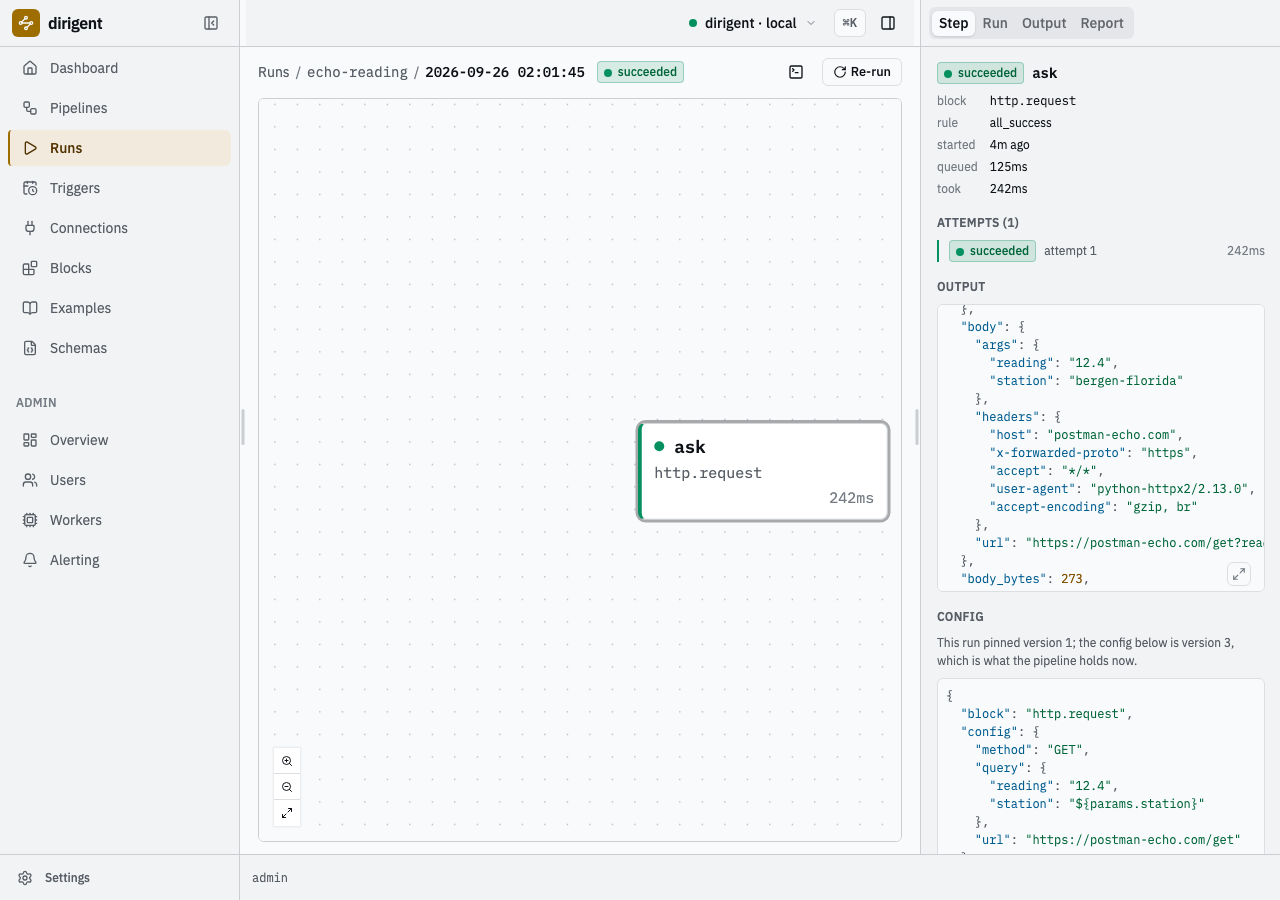
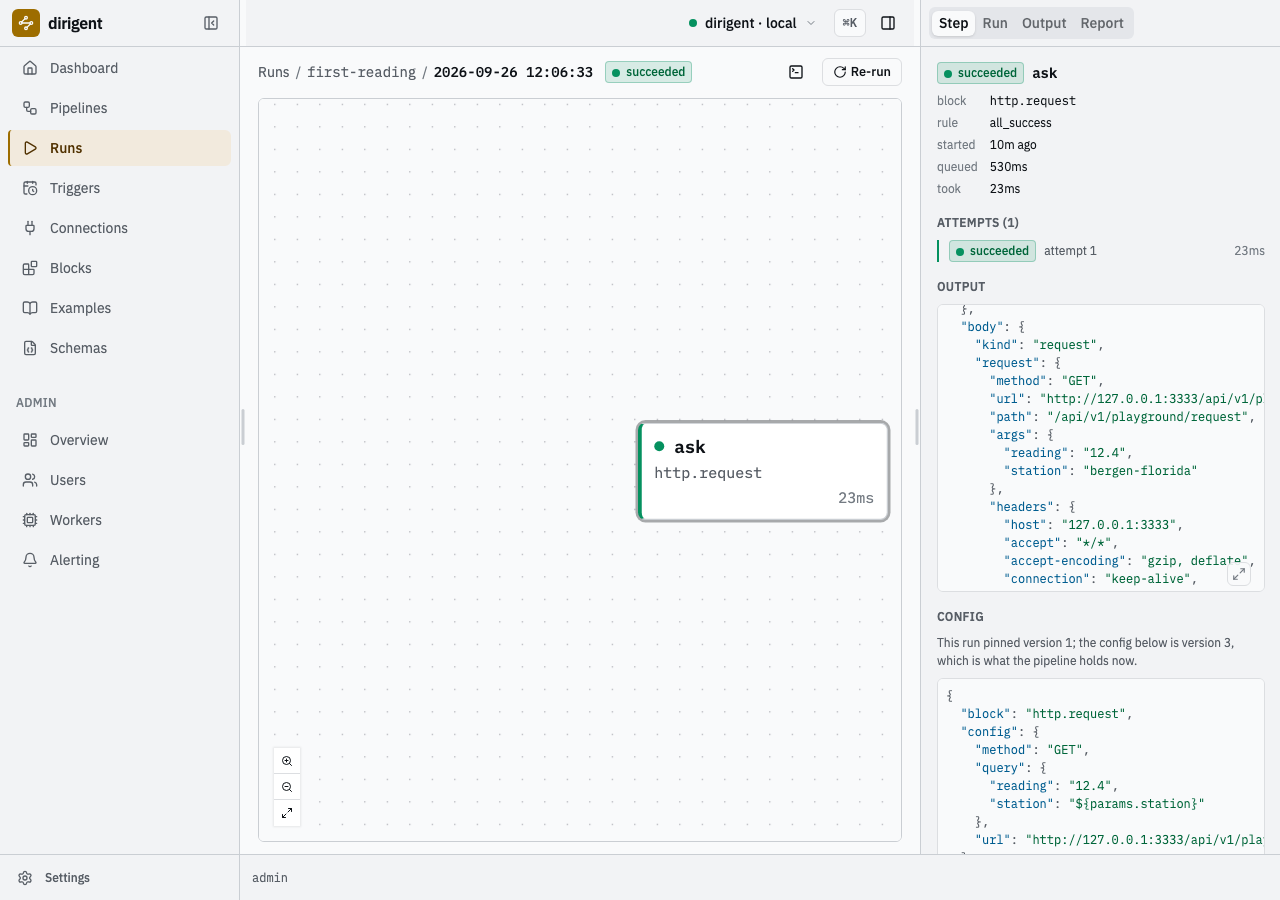
docs: re-shoot the basics tutorial on the playground

Changed region(s): [[0.75, 0.3733, 0.9688, 0.6533], [0.25, 0.0622, 0.5625, 0.0933], [0.7812, 0.1556, 0.8125, 0.2178]]

diff --git a/docs/basics.md b/docs/basics.md
@@ -49,7 +49,7 @@ uv sync
 ```
 
 ```text
-2026-09-26T01:58:26.030+02:00 [info    ] initialised                    [instance.initialised] directory=/home/you/basics state=.dirigent/state schema=0001_baseline admin=admin template=local version=0.19.0
+2026-09-26T12:05:38.030+02:00 [info    ] initialised                    [instance.initialised] directory=/home/you/basics state=.dirigent/state schema=0001_baseline admin=admin template=local version=0.19.0
 ```
 
 It creates the state directory, migrates the schema, creates the first admin, and mints that
@@ -140,13 +140,13 @@ uv run dg run --local hello.yaml
 ```
 
 ```text
-2026-09-26T02:01:08.204+02:00 [info    ] started                        [run] pipeline=hello run_id=01a0ad18-3220-76eb-8df9-e50dacb275d9 local=true scratch=file:///tmp/dirigent-local-8tksuueg/artifacts/runs/01a0ad18-3220-76eb-8df9-e50dacb275d9 root=/tmp/dirigent-local-8tksuueg
-2026-09-26T02:01:08.200+02:00 [info    ] queued                         [step make] block=value.const attempt=1
-2026-09-26T02:01:08.244+02:00 [info    ] finished                       [log make] duration_ms=0 output_bytes=31
-2026-09-26T02:01:08.239+02:00 [info    ] succeeded                      [step make] block=value.const attempt=1 duration_ms=9
-2026-09-26T02:01:08.297+02:00 [info    ] the step before me said: hello from dirigent [log say]
-2026-09-26T02:01:08.297+02:00 [info    ] succeeded                      [step say] block=log.write attempt=1 duration_ms=4
-2026-09-26T02:01:08.394+02:00 [info    ] succeeded                      [run] pipeline=hello run_id=01a0ad18-3220-76eb-8df9-e50dacb275d9 exit_code=0
+2026-09-26T12:06:13.204+02:00 [info    ] started                        [run] pipeline=hello run_id=01a0ad18-3220-76eb-8df9-e50dacb275d9 local=true scratch=file:///tmp/dirigent-local-8tksuueg/artifacts/runs/01a0ad18-3220-76eb-8df9-e50dacb275d9 root=/tmp/dirigent-local-8tksuueg
+2026-09-26T12:06:13.200+02:00 [info    ] queued                         [step make] block=value.const attempt=1
+2026-09-26T12:06:13.244+02:00 [info    ] finished                       [log make] duration_ms=0 output_bytes=31
+2026-09-26T12:06:13.239+02:00 [info    ] succeeded                      [step make] block=value.const attempt=1 duration_ms=9
+2026-09-26T12:06:13.297+02:00 [info    ] the step before me said: hello from dirigent [log say]
+2026-09-26T12:06:13.297+02:00 [info    ] succeeded                      [step say] block=log.write attempt=1 duration_ms=4
+2026-09-26T12:06:13.394+02:00 [info    ] succeeded                      [run] pipeline=hello run_id=01a0ad18-3220-76eb-8df9-e50dacb275d9 exit_code=0
 steps
 ┏━━━━━━┳━━━━━━━━━━━━━┳━━━━━━━━━━━┳━━━━━━━┳━━━━━━━━━━┳━━━━━━━━━━━━━━━━━━━━━━━━━━━┓
 ┃ step ┃ block       ┃ outcome   ┃ after ┃ duration ┃ output                    ┃
@@ -240,10 +240,10 @@ uv run dg validate pipelines/first-reading.yaml
 ```
 
 ```text
-2026-09-26T02:01:15.109+02:00 [info    ] valid                          [validation] code=first-reading document=pipelines/first-reading.yaml checked="document, offline"
+2026-09-26T12:06:30.109+02:00 [info    ] valid                          [validation] code=first-reading document=pipelines/first-reading.yaml checked="document, offline"
   each step under the last one it waits for
     ask  (http.request)
-2026-09-26T02:01:15.111+02:00 [info    ] valid                          [validated] documents=1 invalid=0
+2026-09-26T12:06:30.111+02:00 [info    ] valid                          [validated] documents=1 invalid=0
 ```
 
 Then store it on the instance and run it:
@@ -325,7 +325,7 @@ arrived verbatim, and anything beside them is what the route decided. So the que
 came back under `request.args`, with the parameter's default in `station`. The same run is on
 the Runs screen of the UI, and choosing a step opens what it produced:
 
-![A run in the UI: one step named ask, succeeded in 242 milliseconds, its output showing the reflected args.](images/basics/run-first.png)
+![A run in the UI: one step named ask, succeeded in 23 milliseconds, its output showing the reflected args.](images/basics/run-first.png)
 
 *The run's only step, its one attempt, and the answer it stored.*
 
@@ -390,7 +390,7 @@ uv run dg apply
 ```
 
 ```text
-2026-09-26T02:02:14.458+02:00 [error   ] this document carries its own schemas (basics-reading), which an instance will not store: create them with `dg schema create` and let the document name them in requires.schemas [error] status=422 title="Unprocessable Content" code=server.document_refused params={"detail":"this document carries its own schemas (basics-reading), which an instance will not store: create them with `dg schema create` and let the document name them in requires.schemas"} instance=/api/v1/pipelines/$apply
+2026-09-26T12:07:01.458+02:00 [error   ] this document carries its own schemas (basics-reading), which an instance will not store: create them with `dg schema create` and let the document name them in requires.schemas [error] status=422 title="Unprocessable Content" code=server.document_refused params={"detail":"this document carries its own schemas (basics-reading), which an instance will not store: create them with `dg schema create` and let the document name them in requires.schemas"} instance=/api/v1/pipelines/$apply
   - this document carries its own schemas (basics-reading), which an instance will not store: create them with `dg schema create` and let the document name them in requires.schemas
 ```
 
@@ -414,8 +414,8 @@ steps
 ┏━━━━━━━┳━━━━━━━━━━━━━━━━━┳━━━━━━━━━━━┳━━━━━━━┳━━━━━━━━━━┳━━━━━━━━━━━━━━━━━━━━━━━━━━━━━━━━━━━━━━━━━┓
 ┃ step  ┃ block           ┃ outcome   ┃ after ┃ duration ┃ output                                  ┃
 ┡━━━━━━━╇━━━━━━━━━━━━━━━━━╇━━━━━━━━━━━╇━━━━━━━╇━━━━━━━━━━╇━━━━━━━━━━━━━━━━━━━━━━━━━━━━━━━━━━━━━━━━━┩
-│ ask   │ http.request    │ succeeded │ -     │ 0.1s     │ status=200  headers={5 keys}  body={3   │
-│       │                 │           │       │          │ keys}  body_bytes=452  duration_ms=31   │
+│ ask   │ http.request    │ succeeded │ -     │ 0.0s     │ status=200  headers={5 keys}  body={3   │
+│       │                 │           │       │          │ keys}  body_bytes=452  duration_ms=28   │
 │ check │ validate.schema │ succeeded │ ask   │ 0.0s     │ value={9 keys}                          │
 └───────┴─────────────────┴───────────┴───────┴──────────┴─────────────────────────────────────────┘
 ```
@@ -437,7 +437,7 @@ steps
 ┡━━━━━━━━━━━━━━━╇━━━━━━━━━━━━━━━━━╇━━━━━━━━━━━╇━━━━━━━╇━━━━━━━━━━╇━━━━━━━━━━━━━━━━━━━━━━━━━━━━━━━━━┩
 │ ask           │ http.request    │ succeeded │ -     │ 0.0s     │ status=200  headers={5 keys}    │
 │               │                 │           │       │          │ body={3 keys}  body_bytes=452   │
-│               │                 │           │       │          │ duration_ms=29                  │
+│               │                 │           │       │          │ duration_ms=28                  │
 │ check  1 warn │ validate.schema │ failed    │ ask   │ 0.0s     │ -                               │
 └───────────────┴─────────────────┴───────────┴───────┴──────────┴─────────────────────────────────┘
 
@@ -529,7 +529,7 @@ steps
 ┏━━━━━━━┳━━━━━━━━━━━━━━━━━┳━━━━━━━━━━━┳━━━━━━━┳━━━━━━━━━━┳━━━━━━━━━━┳━━━━━━━┓
 ┃ step  ┃ block           ┃ outcome   ┃ after ┃ attempts ┃ duration ┃ error ┃
 ┡━━━━━━━╇━━━━━━━━━━━━━━━━━╇━━━━━━━━━━━╇━━━━━━━╇━━━━━━━━━━╇━━━━━━━━━━╇━━━━━━━┩
-│ ask   │ http.request    │ succeeded │ -     │ 1        │ 0.2s     │ -     │
+│ ask   │ http.request    │ succeeded │ -     │ 1        │ 0.0s     │ -     │
 │ check │ validate.schema │ succeeded │ ask   │ 1        │ 0.0s     │ -     │
 └───────┴─────────────────┴───────────┴───────┴──────────┴──────────┴───────┘
 ```
@@ -584,17 +584,17 @@ steps
 ┡━━━━━━━╇━━━━━━━━━━━━━━━━━╇━━━━━━━━━━━╇━━━━━━━╇━━━━━━━━━━╇━━━━━━━━━━╇━━━━━━━┩
 │ ask   │ http.request    │ succeeded │ -     │ 1        │ 0.0s     │ -     │
 │ check │ validate.schema │ succeeded │ ask   │ 1        │ 0.0s     │ -     │
-│ send  │ http.request    │ succeeded │ check │ 1        │ 0.1s     │ -     │
+│ send  │ http.request    │ succeeded │ check │ 1        │ 0.0s     │ -     │
 └───────┴─────────────────┴───────────┴───────┴──────────┴──────────┴───────┘
 
 outputs
-┏━━━━━━━┳━━━━━━━━━━━━━━━━━━━━━━━━━━━━━━━━━━━━━━━━━━━━━━━━━━━━━━━━━━━━━━━━━━━━━━━━━━━━━┓
-┃ step  ┃ output                                                                      ┃
-┡━━━━━━━╇━━━━━━━━━━━━━━━━━━━━━━━━━━━━━━━━━━━━━━━━━━━━━━━━━━━━━━━━━━━━━━━━━━━━━━━━━━━━━┩
-│ ask   │ status=200  headers={5 keys}  body={3 keys}  body_bytes=452  duration_ms=6  │
-│ check │ value={9 keys}                                                              │
-│ send  │ status=200  headers={5 keys}  body={3 keys}  body_bytes=486  duration_ms=19 │
-└───────┴─────────────────────────────────────────────────────────────────────────────┘
+┏━━━━━━━┳━━━━━━━━━━━━━━━━━━━━━━━━━━━━━━━━━━━━━━━━━━━━━━━━━━━━━━━━━━━━━━━━━━━━━━━━━━━━┓
+┃ step  ┃ output                                                                     ┃
+┡━━━━━━━╇━━━━━━━━━━━━━━━━━━━━━━━━━━━━━━━━━━━━━━━━━━━━━━━━━━━━━━━━━━━━━━━━━━━━━━━━━━━━┩
+│ ask   │ status=200  headers={5 keys}  body={3 keys}  body_bytes=452  duration_ms=4 │
+│ check │ value={9 keys}                                                             │
+│ send  │ status=200  headers={5 keys}  body={3 keys}  body_bytes=486  duration_ms=4 │
+└───────┴────────────────────────────────────────────────────────────────────────────┘
 ```
 
 The playground answers a POST with the body it was given, under `request.body`, so its answer
@@ -722,7 +722,7 @@ steps
 ┏━━━━━━━━━┳━━━━━━━━━━━━━━┳━━━━━━━━━┳━━━━━━━┳━━━━━━━━━━┳━━━━━━━━┓
 ┃ step    ┃ block        ┃ outcome ┃ after ┃ duration ┃ output ┃
 ┡━━━━━━━━━╇━━━━━━━━━━━━━━╇━━━━━━━━━╇━━━━━━━╇━━━━━━━━━━╇━━━━━━━━┩
-│ refused │ http.request │ failed  │ -     │ 0.0s     │ -      │
+│ refused │ http.request │ failed  │ -     │ 0.1s     │ -      │
 │ unlucky │ http.request │ failed  │ -     │ 0.0s     │ -      │
 │ unlucky │ http.request │ failed  │ -     │ 0.0s     │ -      │
 │ unlucky │ http.request │ failed  │ -     │ 0.0s     │ -      │
@@ -766,7 +766,7 @@ uv run dg run two-failures --watch
 
 *One attempt, with three allowed. A rejected failure never touches the budget.*
 
-![The same run with the unlucky step selected: three attempts, each one transient, eight seconds from the first to the last.](images/basics/run-retried.png)
+![The same run with the unlucky step selected: three attempts, each one transient, six seconds from the first to the last.](images/basics/run-retried.png)
 
 *The same budget, spent. Every attempt is a row of its own, with its own resolved config and its own logs, which is what makes a retry auditable rather than a counter.*
 
